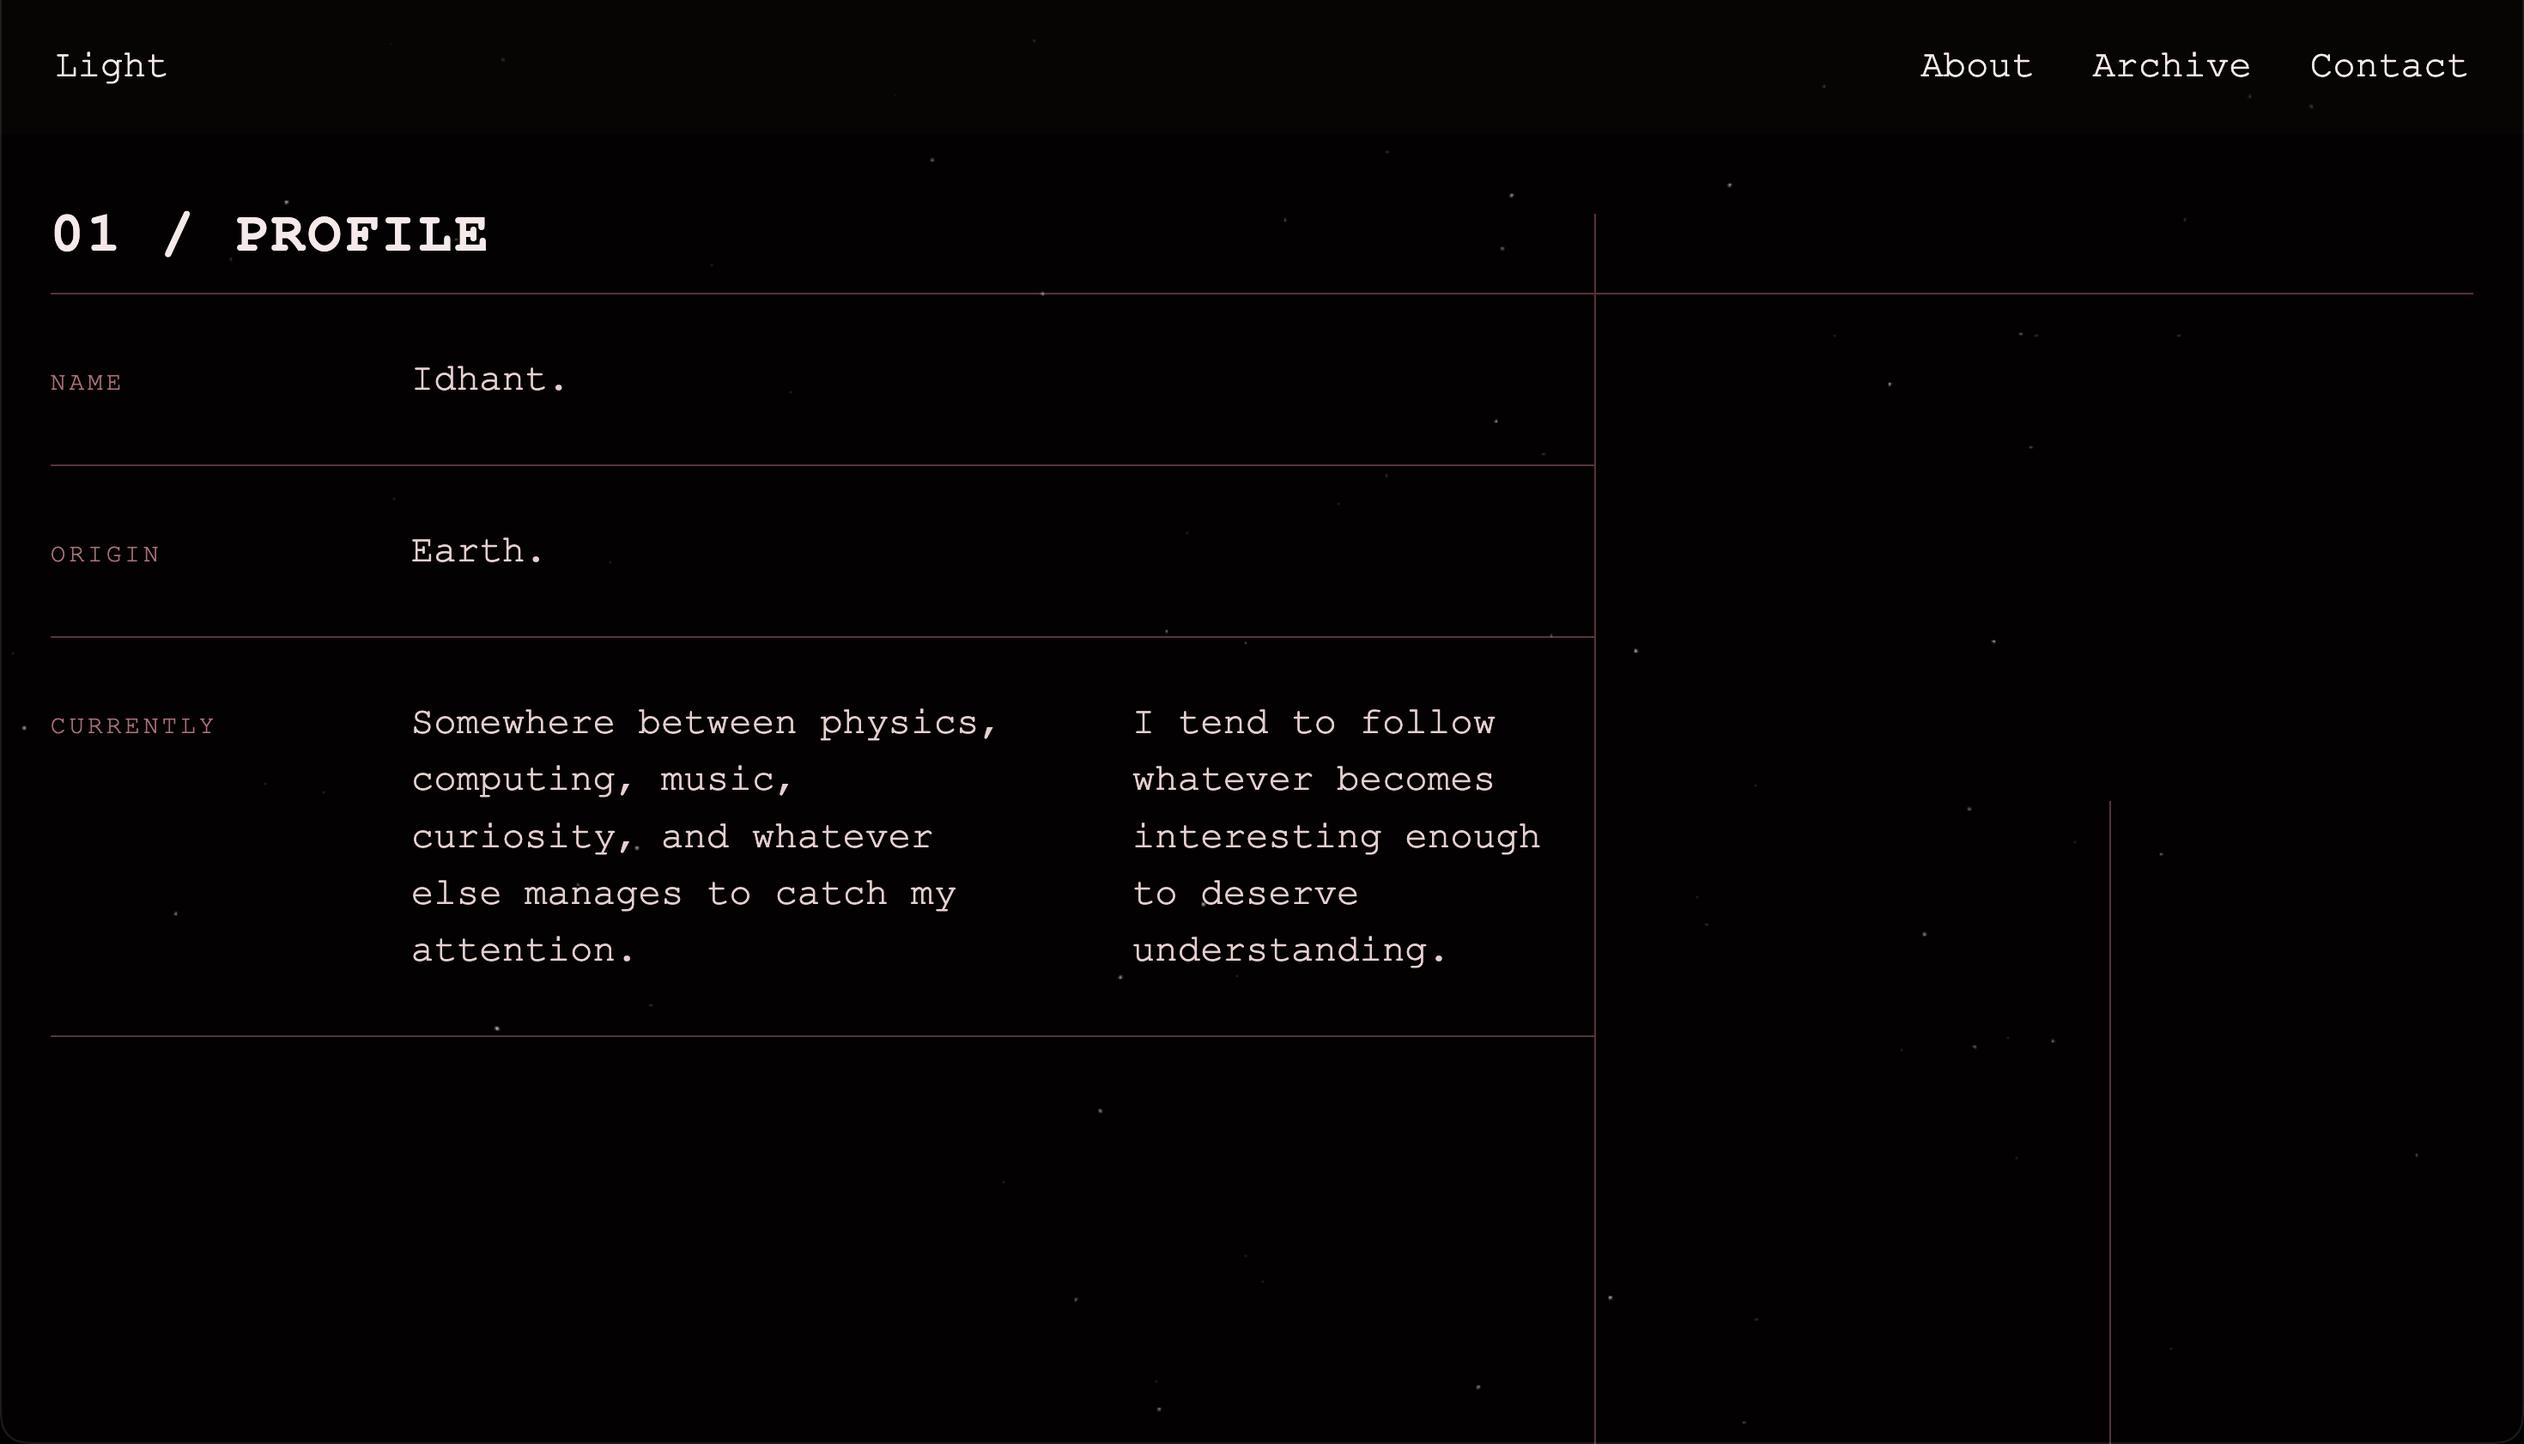
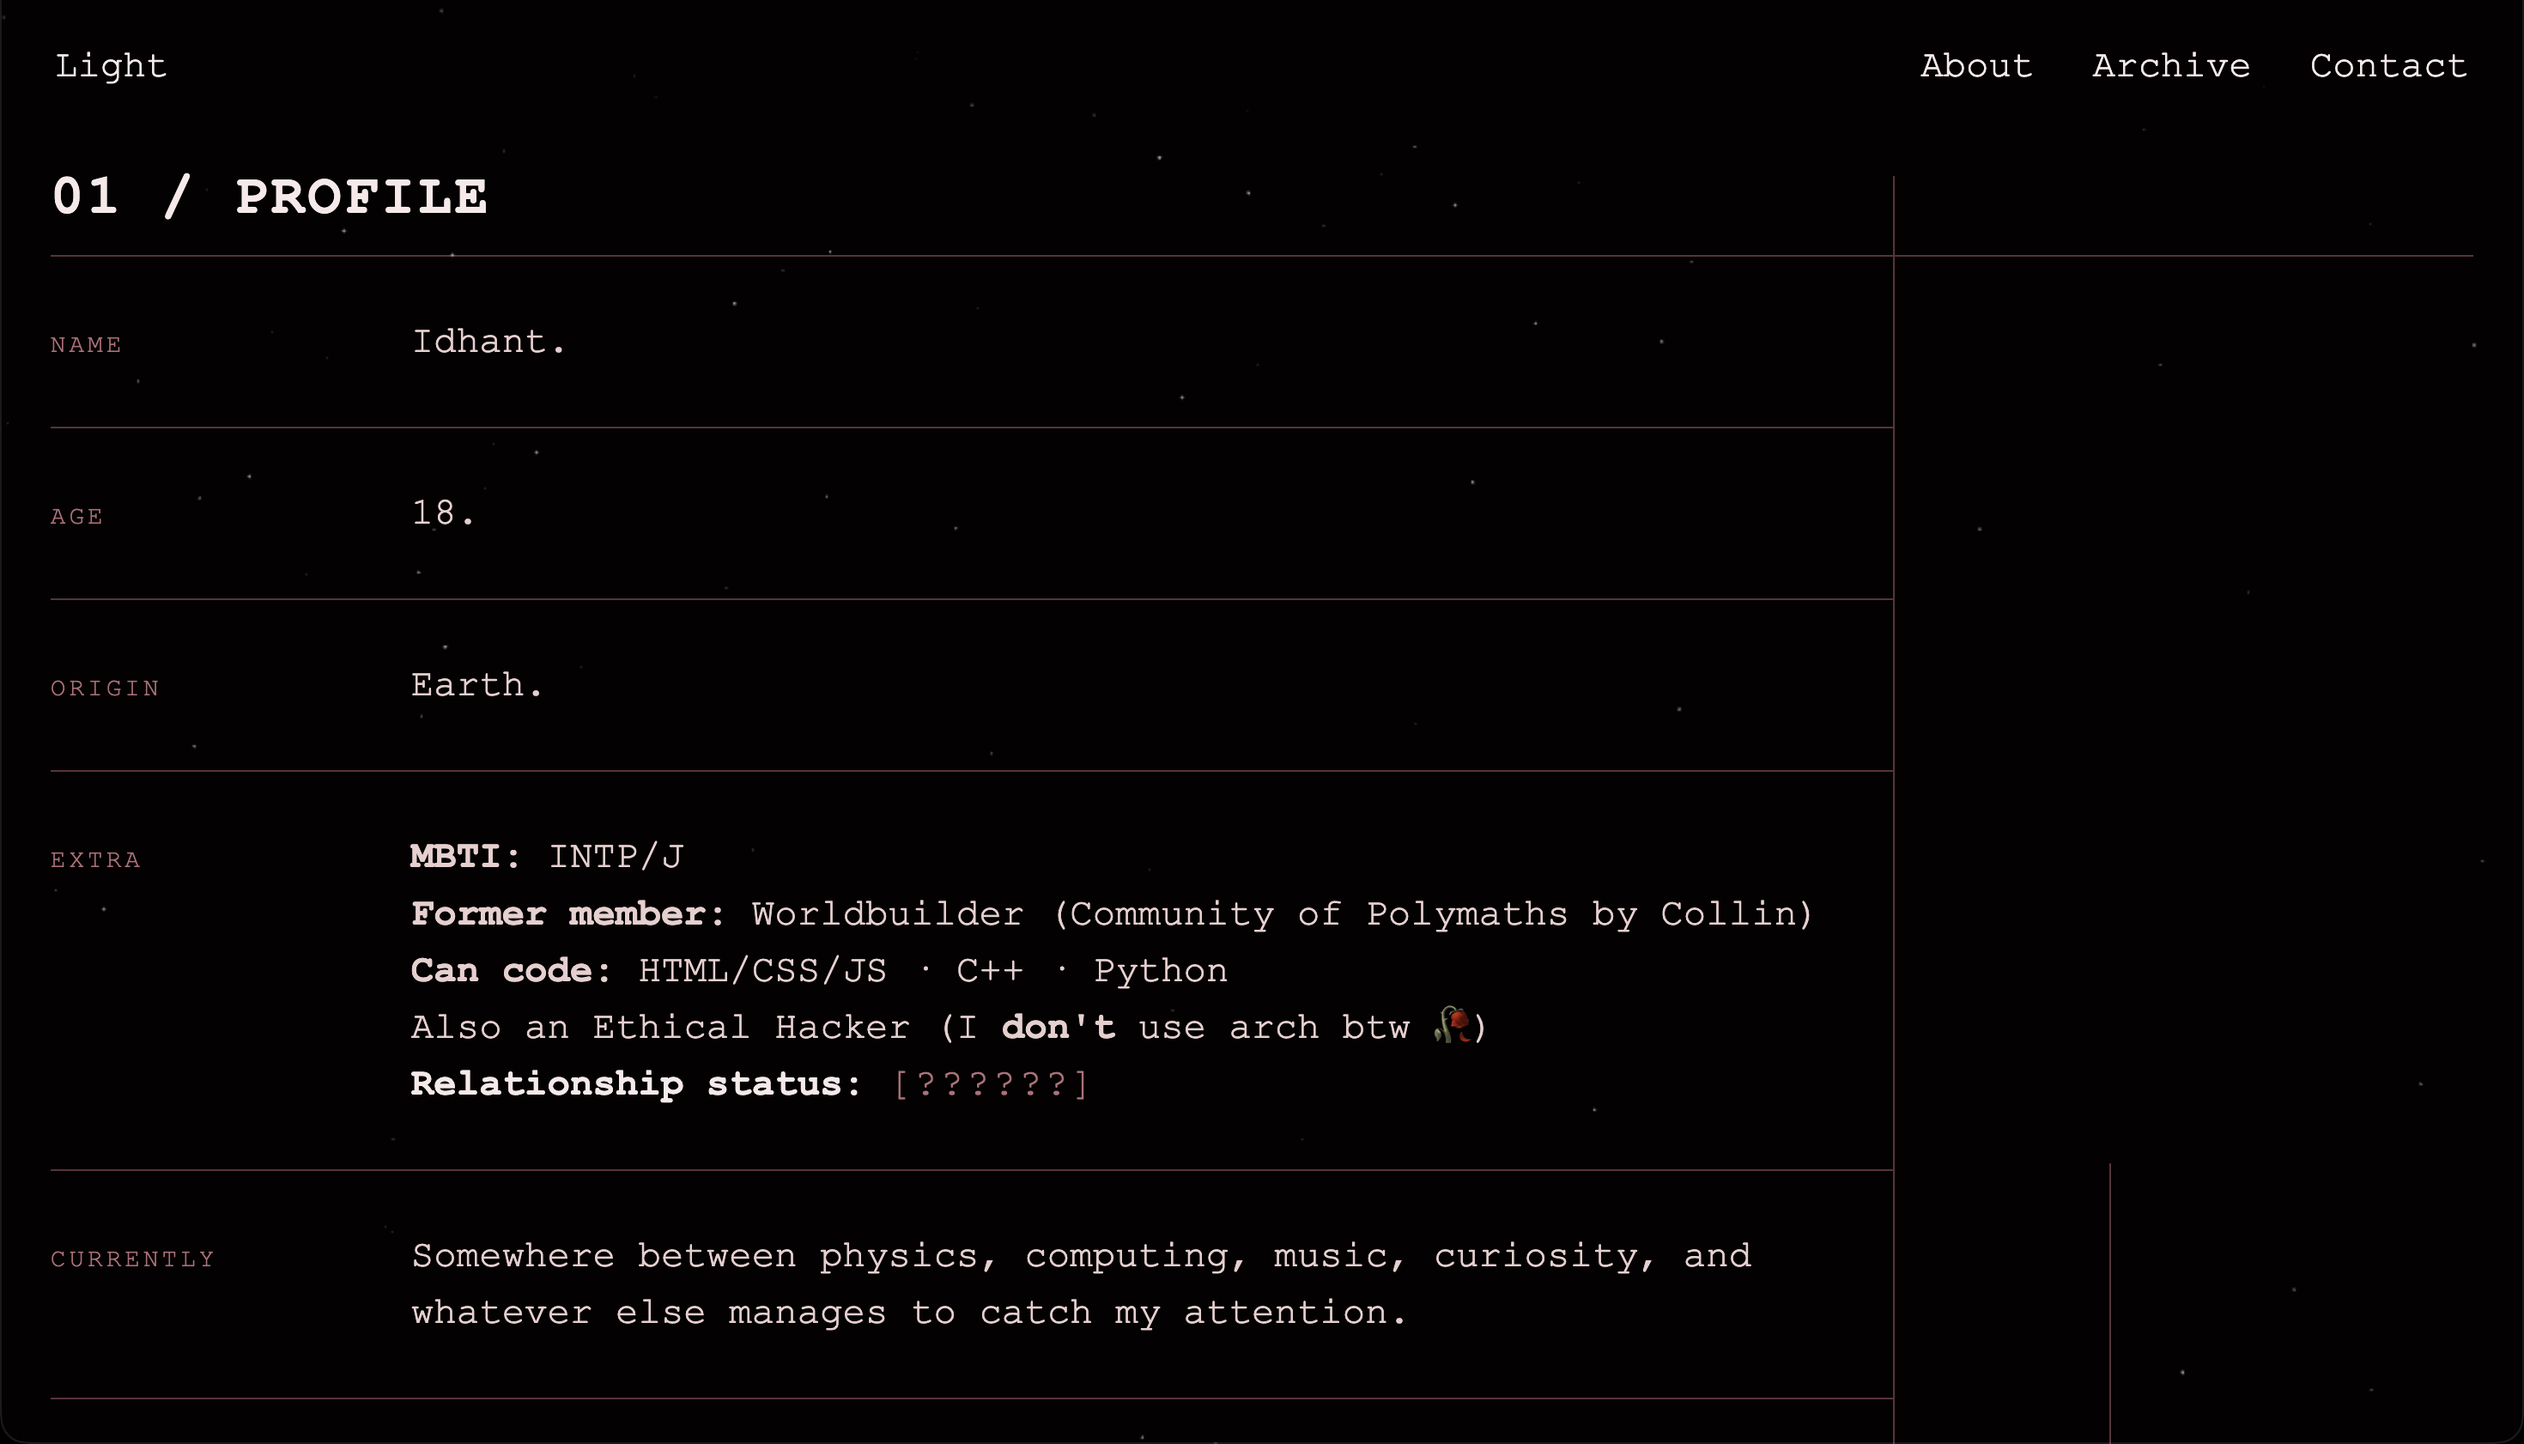
Extra content

diff --git a/about.html b/about.html
@@ -47,16 +47,28 @@
                     <p>18.</p>
                 </div>
 
-
                 <div class="about-fact">
                     <span>ORIGIN</span>
                     <p>Earth.</p>
                 </div>
 
                 <div class="about-fact">
+                    <span>EXTRA</span>
+                    <p><b>MBTI:</b> INTP/J <br> 
+                       <b>Former member:</b> Worldbuilder (Community of Polymaths by Collin) <br>
+                       <b>Can code:</b> HTML/CSS/JS · C++ · Python <br>
+                       Also an Ethical Hacker (I <b>don't</b> use arch btw 🥀) <br>
+                       <b style="color: #F7E9EA;">Relationship status: </b>
+                       <span class="secret-status" onclick="this.textContent='Aren\'t you a curious one? 🗿'">[??????]</span>
+                    </p>
+                </div>
+                
+                <div class="about-fact">
                     <span>CURRENTLY</span>
                     <p>Somewhere between physics, computing, music, curiosity, and whatever else manages to catch my attention.</p>
                 </div>
+
+
 
             </div>
         </section>

diff --git a/css/about.css b/css/about.css
@@ -13,7 +13,7 @@ body {
 
 
 nav {
-    background-color: #0A060799;
+    background-color: #03010199;
 }
 
 ::selection {
@@ -38,9 +38,9 @@ nav {
 /* Profile Facts */
 
 .about-facts {
-    max-width: 900px;
+    max-width: 1074px;
     margin-top: 33px;
-
+    /* padding-right: 10px; */
     position: relative;
 }
 
@@ -76,6 +76,16 @@ nav {
 .about-fact p {
     color: var(--text-secondary);
     line-height: 1.5;
+}
+
+.secret-status {
+    cursor: pointer;
+    color: var(--text-effect);
+    font-size: 1.5vw !important;
+}
+
+.secret-status:hover {
+    color: var(--text-secondary);
 }
 
 /* General content */

diff --git a/index.html b/index.html
@@ -151,6 +151,7 @@
 
                 <div class="contact-links">
                     <a href="https://github.com/Alchemic-Eclipse" target="_blank" rel="noopener noreferrer">GITHUB →</a>
+                    <a href="https://stardance.hackclub.com/@Eclipse/" target="_blank" rel="noopener noreferrer">STARDANCE →</a>
                     <a href="mailto:alchemic.eclipse@proton.me">EMAIL →</a>
                 </div>
             </div>

diff --git a/README.md b/README.md
@@ -4,7 +4,7 @@
 
 > A personal space for polymathy, physics, computing, and whatever else becomes interesting enough to understand.
 
-Light is a personal website built as a digital extension of how I think and work. It is less of a conventional portfolio and more of an evolving record of things I'm learning, building, exploring and occasionally abandoning.
+Light is a minimalist personal website built as a digital extension of how I think and work. It is less of a conventional portfolio and more of an evolving record of things I'm learning, building, exploring and occasionally abandoning.
 
 ## What is Here
 
